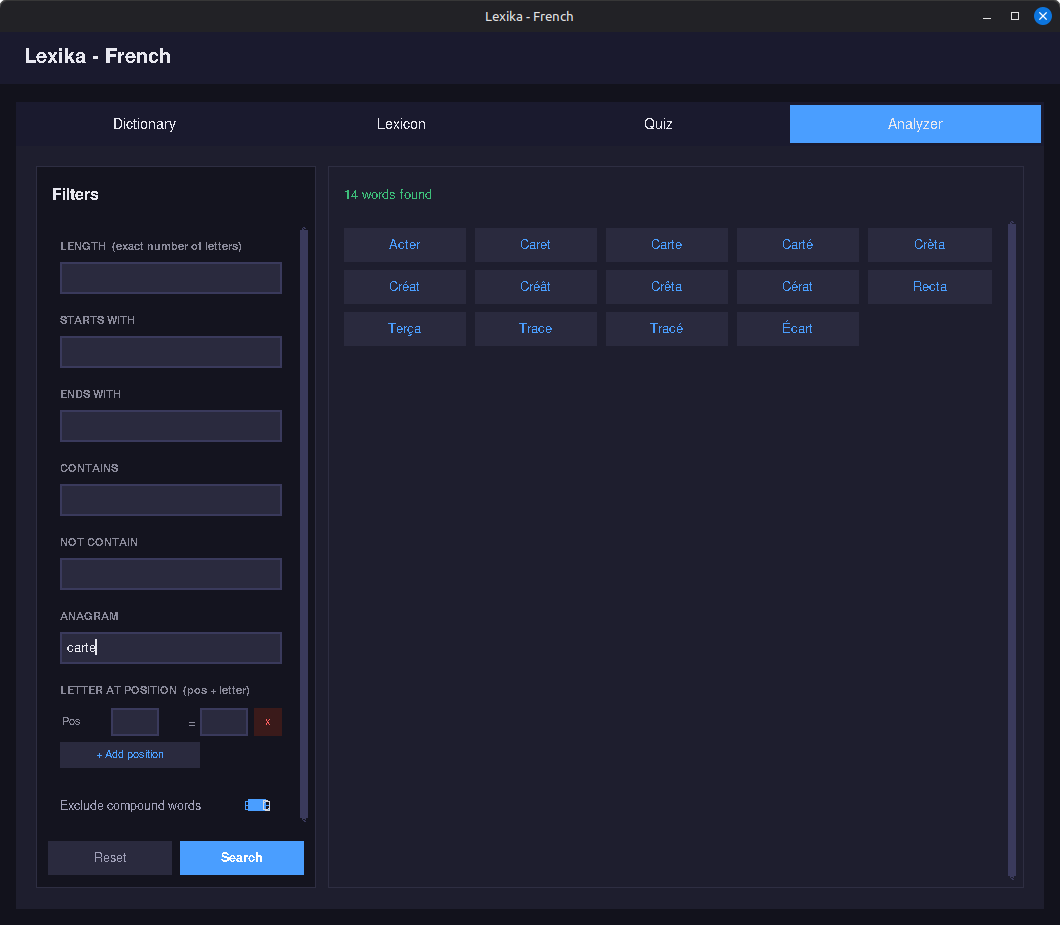
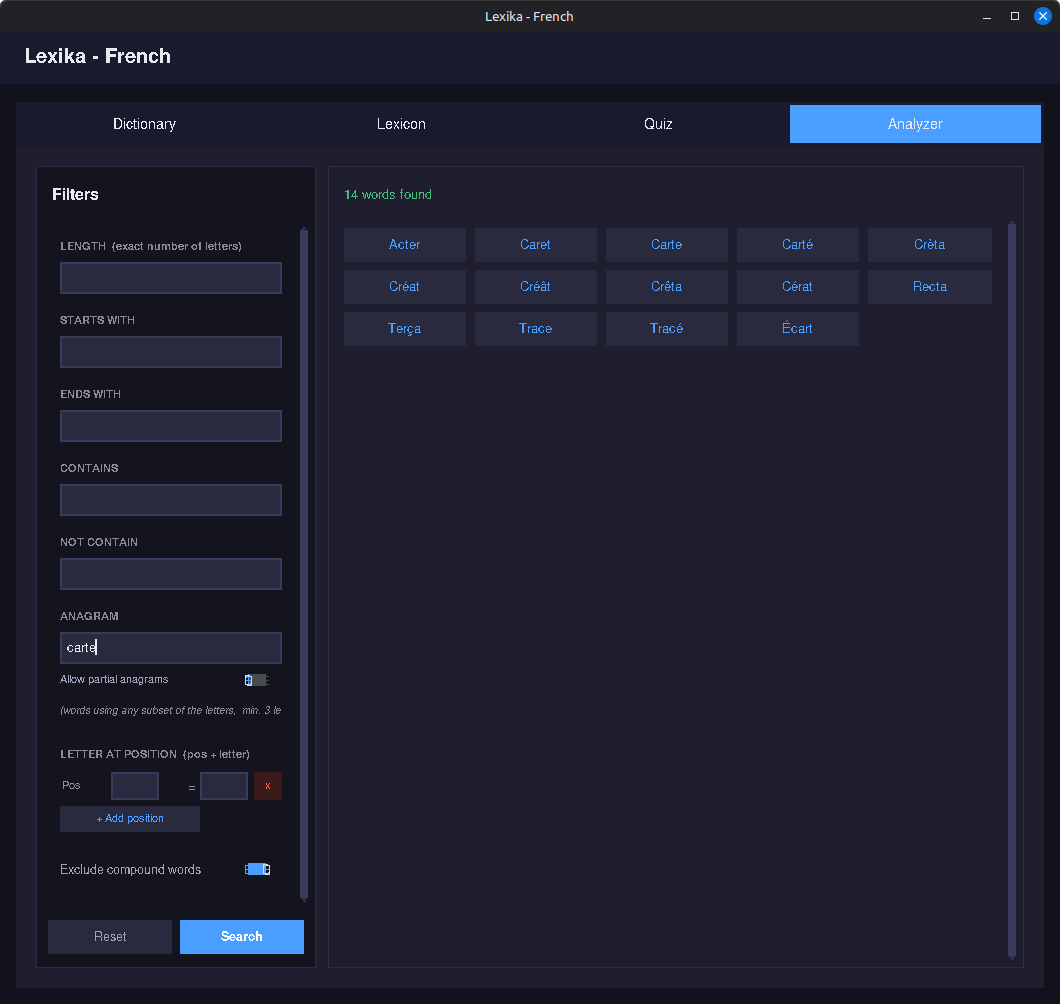
Partial anagrams

diff --git a/core/dictionary.py b/core/dictionary.py
@@ -9,8 +9,14 @@ import json
 import sqlite3
 import difflib
 import unicodedata
+from collections import Counter
 from pathlib import Path
 from typing import Optional
+
+# Minimum word length for partial anagram results.
+# Words shorter than this will never appear in sub-anagram searches.
+# Change this value to adjust the minimum length globally.
+MIN_PARTIAL_ANAGRAM_LENGTH = 3
 
 def _normalize(text: str) -> str:
     """Removes accents from a string for comparison purposes."""
@@ -149,15 +155,16 @@ class Dictionary:
 
     def analyze(
         self,
-        length:      int | None       = None,
-        start_with:  str | None       = None,
-        end_with:    str | None       = None,
-        contains:    list[str]        = None,
-        not_contain: list[str]        = None,
-        nth_letters: list[list]       = None,
-        anagram:     list[str] | None = None,
-        no_comp:     bool             = True,
-        limit:       int              = 500,
+        length:          int | None       = None,
+        start_with:      str | None       = None,
+        end_with:        str | None       = None,
+        contains:        list[str]        = None,
+        not_contain:     list[str]        = None,
+        nth_letters:     list[list]       = None,
+        anagram:         list[str] | None = None,
+        partial_anagram: bool             = False,
+        no_comp:         bool             = True,
+        limit:           int              = 500,
     ) -> tuple[list[str], bool]:
         """
         Filters the dictionary using cascading SQL conditions,
@@ -165,17 +172,20 @@ class Dictionary:
 
         Parameters
         ----------
-        length      : exact word length in characters
-        start_with  : prefix the word must start with
-        end_with    : suffix the word must end with
-        contains    : list of letters the word must contain (each at least once)
-        not_contain : list of letters the word must NOT contain
-        nth_letters : list of [position, letter] pairs (1-indexed)
-                      e.g. [[2, 'r'], [4, 't']] -> 2nd letter is 'r', 4th is 't'
-        anagram     : list of letters; the word must be an exact anagram of them
-                      (implies length = len(anagram) if length is not set)
-        no_comp     : if True (default), excludes compound words (space or hyphen)
-        limit       : maximum number of results returned (default 500)
+        length          : exact word length in characters
+        start_with      : prefix the word must start with
+        end_with        : suffix the word must end with
+        contains        : list of letters the word must contain (each at least once)
+        not_contain     : list of letters the word must NOT contain
+        nth_letters     : list of [position, letter] pairs (1-indexed)
+                          e.g. [[2, 'r'], [4, 't']] -> 2nd letter is 'r', 4th is 't'
+        anagram         : list of letters for anagram matching
+        partial_anagram : if True, also return words that use a SUBSET of the
+                          anagram letters (sub-anagrams), e.g. 'carte' -> 'car', 'rat'
+                          Words shorter than MIN_PARTIAL_ANAGRAM_LENGTH are excluded.
+                          Ignored when anagram is None.
+        no_comp         : if True (default), excludes compound words (space or hyphen)
+        limit           : maximum number of results returned (default 500)
 
         Returns
         -------
@@ -186,19 +196,39 @@ class Dictionary:
         conditions = [] # SQL WHERE conditions
         params = [] # SQL parameters for the conditions
 
-        # Anagram: derive length from letters if not explicitly set
-        anagram_sorted = None
+        # Anagram setup
+        anagram_sorted  = None
+        anagram_counter = None
         if anagram:
             letters = [_normalize(l).lower() for l in anagram if l.strip()]
-            anagram_sorted = sorted(letters)
-            if length is None:
-                length = len(letters)
+            anagram_sorted  = sorted(letters)
+            anagram_counter = Counter(letters)
+
+            if partial_anagram:
+                # Partial mode: words can use any subset of the pool.
+                # SQL bounds: length >= MIN_PARTIAL_ANAGRAM_LENGTH
+                #             length <= len(pool)  (can't use more letters than available)
+                # The exact Python check replaces the sorted() equality test.
+                if length is None:
+                    # Add both bounds as SQL conditions
+                    pass   # handled below after length block
+            else:
+                # Perfect anagram: word must use ALL letters exactly once.
+                if length is None:
+                    length = len(letters)
 
         # --- Build SQL WHERE clauses ---
 
         if length is not None:
             conditions.append("LENGTH(forme) = ?")
             params.append(length)
+        elif anagram and partial_anagram:
+            # Partial anagram: bound by [MIN, pool_size] instead of exact length
+            pool_size = len([l for l in anagram if l.strip()])
+            conditions.append("LENGTH(forme) >= ?")
+            params.append(MIN_PARTIAL_ANAGRAM_LENGTH)
+            conditions.append("LENGTH(forme) <= ?")
+            params.append(pool_size)
 
         if start_with:
             conditions.append("forme LIKE ?")
@@ -272,10 +302,22 @@ class Dictionary:
 
         # Python post-filter: anagram check
         if anagram_sorted:
-            words = [
-                w for w in words
-                if sorted(_normalize(w).lower()) == anagram_sorted
-            ]
+            if partial_anagram:
+                # Sub-anagram: every letter of the word must be available
+                # in the pool (with correct multiplicity).
+                def _is_sub_anagram(word: str) -> bool:
+                    word_counter = Counter(_normalize(word).lower())
+                    for letter, count in word_counter.items():
+                        if anagram_counter.get(letter, 0) < count:
+                            return False
+                    return True
+                words = [w for w in words if _is_sub_anagram(w)]
+            else:
+                # Perfect anagram: sorted letters must match exactly.
+                words = [
+                    w for w in words
+                    if sorted(_normalize(w).lower()) == anagram_sorted
+                ]
 
         truncated = len(words) > limit
         return sorted(words[:limit]), truncated

diff --git a/ui/tab_analyzer.py b/ui/tab_analyzer.py
@@ -211,6 +211,38 @@ class TabAnalyzer(ctk.CTkFrame):
         self._var_anagram = StringVar()
         row = entry_field(self._var_anagram, "e.g.  carte  or  c a r t e", row)
 
+        # Partial anagram switch
+        self._var_partial_anagram = BooleanVar(value=False)
+
+        partial_row = ctk.CTkFrame(parent, fg_color="transparent")
+        partial_row.grid(row=row, column=0, sticky="ew", padx=14, pady=(0, 2))
+        partial_row.grid_columnconfigure(0, weight=1)
+        row += 1
+
+        ctk.CTkLabel(
+            partial_row,
+            text="Allow partial anagrams",
+            font=ctk.CTkFont(family="Arial", size=11),
+            text_color=COLOR_TEXT2, anchor="w",
+        ).grid(row=0, column=0, sticky="w")
+
+        ctk.CTkSwitch(
+            partial_row,
+            text="",
+            variable=self._var_partial_anagram,
+            onvalue=True, offvalue=False,
+            progress_color=COLOR_ACCENT,
+            width=40,
+        ).grid(row=0, column=1, sticky="e")
+
+        ctk.CTkLabel(
+            parent,
+            text="(words using any subset of the letters,  min. 3 letters)",
+            font=ctk.CTkFont(family="Arial", size=10, slant="italic"),
+            text_color=COLOR_NEUTRAL, anchor="w",
+        ).grid(row=row, column=0, sticky="w", padx=14, pady=(0, 6))
+        row += 1
+
         # --- Nth letters ---
         row = section("LETTER AT POSITION  (pos + letter)", row)
 
@@ -415,6 +447,8 @@ class TabAnalyzer(ctk.CTkFrame):
         raw_ag = self._var_anagram.get().replace(" ", "").lower()
         if raw_ag:
             params["anagram"] = [l for l in raw_ag if l.isalpha()]
+            if self._var_partial_anagram.get():
+                params["partial_anagram"] = True
 
         # Nth letters
         nth = []
@@ -542,6 +576,7 @@ class TabAnalyzer(ctk.CTkFrame):
         self._var_not_contain.set("")
         self._var_anagram.set("")
         self._var_no_comp.set(True)
+        self._var_partial_anagram.set(False)
 
         # Clear nth rows and add one fresh empty row
         for _, _, frame in self._nth_rows:

diff --git a/main.py b/main.py
@@ -13,8 +13,8 @@ Custom paths:
     python main.py --db /path/to/dict.db --lexicon /path/to/lexicon.json
 
 Author  : Kartmaan
-Date    : 2026-03-17
-Version : 1.1.0
+Date    : 2026-03-21
+Version : 1.2.0
 """
 
 import sys

diff --git a/README.md b/README.md
@@ -195,7 +195,7 @@ All filters are optional and combinable. The more filters are active, the more p
 
 **Combining filters**
 
-Filters are applied as cascading SQL conditions — each active filter narrows down the previous results. For example:
+Filters are applied as cascading SQL conditions, each active filter narrows down the previous results. For example:
 
 ```
 Length = 7, Starts with = g, Ends with = it,
@@ -206,11 +206,19 @@ Letter at position: Pos 2 = r, Pos 4 = t
 
 **Anagram search**
 
-The anagram filter finds all words in the dictionary that use exactly the same letters as the input, regardless of order. Accented variants are handled automatically — searching `carte` will find `Carte`, `Carté`, `Trace`, `Tracé`, `Acter`, `Caret`, and more.
+**Perfect anagrams**
+
+The anagram filter finds all words in the dictionary that use exactly the same letters as the input, regardless of order. Accented variants are handled automatically, searching `carte` will find `Carte`, `Carté`, `Trace`, `Tracé`, `Acter`, `Caret`, and more.
 
 ![Anagram](assets/readme/anagram_cap.png)
 
-Anagram can be combined with other filters: for instance, adding **Starts with = t** to `carte` restricts results to anagrams beginning with 't' (`Trace`, `Tracé`).
+**Partial anagrams**
+
+When enabled, the anagram search no longer requires words to use all the provided letters, it instead returns any word that can be formed using a subset of them. For example, searching for "carte" with partial anagrams enabled, the results are expanded to include shorter words such as "Car", "Arc", "Rat" or "Acte", as long as each letter used appears in the original pool and isn't used more times than it's available. Words shorter than three letters are excluded from partial results. This mode is particularly useful for board game players, such as Scrabble, who may not always be able to place all their tiles at once.
+
+![Anagram_partial](assets/readme/anagram_partial_cap.png)
+
+> Anagram can be combined with other filters: for instance, adding **Starts with = t** to `carte` restricts results to anagrams beginning with 't' (`Trace`, `Tracé`).
 
 **Letter at position**
 
@@ -224,14 +232,37 @@ Click **+ Add position** to add a positional constraint row (position + letter).
 
 ---
 
+## Technical Notes - Why SQLite?
+
+The dictionary is stored as a **SQLite database** (`.db`) rather than a flat file format such as CSV, JSON, or Parquet. This choice was driven by the specific requirements of a desktop dictionary application handling nearly 900,000 entries.
+
+**Instant lookups via B-tree indexing**
+
+SQLite maintains a B-tree index on the `forme` column, meaning an exact word search across 900,000 entries completes in under a millisecond, regardless of the position of the word in the alphabet. A flat file would require a full scan on every keystroke.
+
+**Cascading filters without loading data into memory**
+
+The Analyzer tab runs multi-criteria queries (length, prefix, suffix, contained letters, positional constraints) entirely within SQLite's query engine. Each active filter is translated into a SQL `WHERE` clause, and only the matching rows are ever read from disk. Equivalent operations on a Pandas DataFrame loaded from a Parquet or CSV file would iterate over all rows in Python, taking several seconds per query on this dataset size.
+
+**Zero memory footprint at startup**
+
+SQLite is a lazy reader: the application connects to the file but loads nothing into RAM until a query is made. The 270 MB database occupies virtually no memory at rest. A JSON or Parquet approach would require loading the entire dataset into memory on startup, adding 20–270 MB to the application's footprint depending on the format.
+
+**Trade-offs acknowledged**
+
+SQLite is not the optimal format for every use case. For machine learning pipelines, where columnar access, compression, and integration with frameworks like Pandas, PyArrow, or Hugging Face `datasets` matter, a **Parquet** export of the same data would be more appropriate.
+
+---
+
 ## Dictionary Source
 
 The dictionary is derived from **WiktionaryX**, a structured lexical resource parsed from the French Wiktionary, produced by **Franck Sajous**, CNRS research engineer and lecturer in Language Sciences at the University of Toulouse.
 
 Original source: http://redac.univ-tlse2.fr/lexiques/wiktionaryx.html
 
-The `french_dict.db` file is hosted separately on Hugging Face (CC BY-SA 4.0 license):
-👉 https://huggingface.co/datasets/Kartmaan/french-dictionary
+The `french_dict.db` file is hosted separately on Hugging Face (CC BY-SA 4.0 license): https://huggingface.co/datasets/Kartmaan/french-dictionary
+
+> The Hugging Face repository also contains this same database in `.parquet` format, which is more useful for machine learning and data science projects.
 
 ---
 
